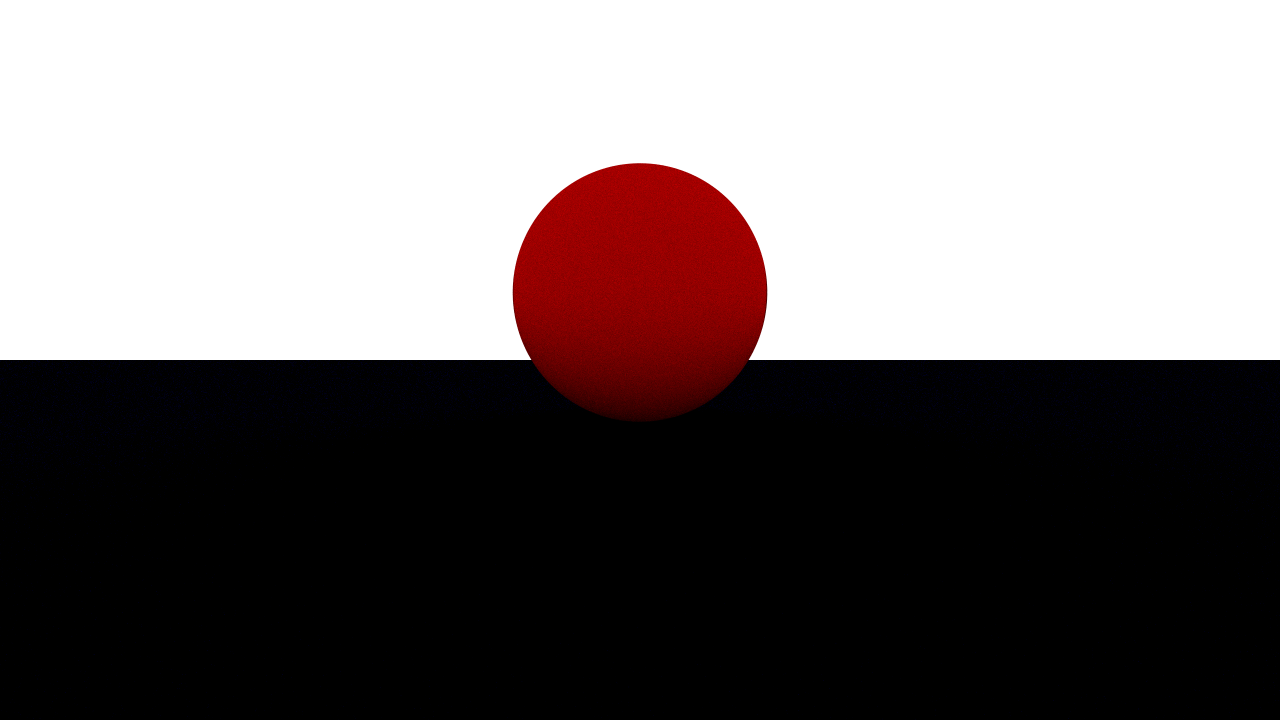
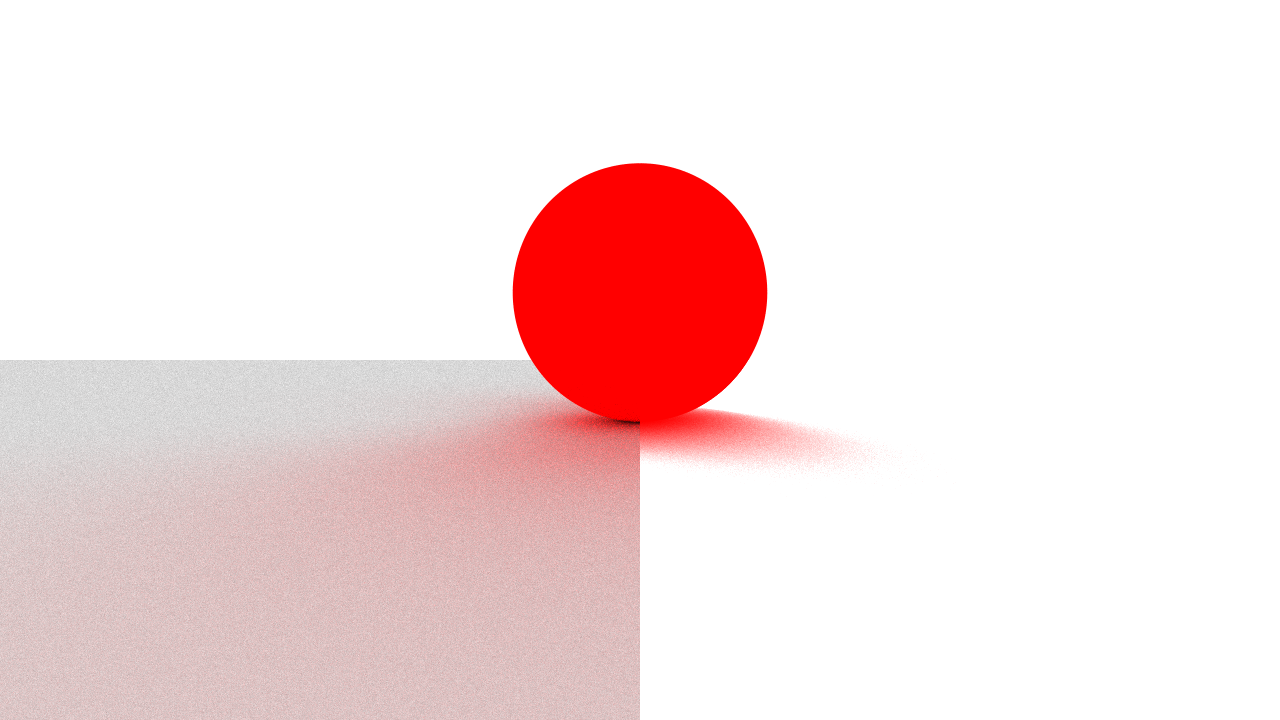
Refactor material scattering logic and introduce left/right differentiation

diff --git a/src/material/mod.rs b/src/material/mod.rs
@@ -28,7 +28,27 @@ fn generate_coordinate_system(normal: &Vec3<FloatSize>) -> (Vec3<FloatSize>, Vec
     (u, v)
 }
 
-fn cosine_weighted_sample(normal: &Vec3<FloatSize>, rand_state: &mut ThreadRng) -> Vec3<FloatSize> {
+fn cosine_weighted_sample_2(
+    normal: &Vec3<FloatSize>,
+    rand_state: &mut ThreadRng,
+) -> Vec3<FloatSize> {
+    let (v, u) = generate_coordinate_system(normal);
+    let r1: FloatSize = rand_state.gen_range(0.0..1.0);
+    let r2: FloatSize = rand_state.gen_range(0.0..1.0);
+    let theta = r1.sqrt().acos();
+    let phi = r2 * 2.0 * std::f64::consts::PI as FloatSize;
+    let a = Vec3::new([phi.sin() * theta.cos(), phi.cos(), phi.sin() * theta.sin()]);
+    Vec3::new([
+        a.x() * u.x() + a.y() * normal.x() + a.z() * v.x(),
+        a.x() * u.y() + a.y() * normal.y() + a.z() * v.y(),
+        a.x() * u.z() + a.y() * normal.z() + a.z() * v.z(),
+    ])
+}
+
+fn cosine_weighted_sample_1(
+    normal: &Vec3<FloatSize>,
+    rand_state: &mut ThreadRng,
+) -> Vec3<FloatSize> {
     let (v, u) = generate_coordinate_system(normal);
     let r1: FloatSize = rand_state.gen_range(0.0..1.0);
     let r2: FloatSize = rand_state.gen_range(0.0..1.0);
@@ -49,23 +69,21 @@ fn cosine_weighted_sample(normal: &Vec3<FloatSize>, rand_state: &mut ThreadRng) 
 }
 
 impl Material {
-    pub fn scatter(&self, ray: &Ray, hit_record: &HitRecord, rand_state: &mut ThreadRng) -> Ray {
-        // let reflected = Self::reflect(&ray.direction.normalize(), &hit_record.normal);
-        // let scatter_direction = reflected + Material::random_unit_vector().scale(self.reflectivity);
-
-        // let scatter_direction = if scatter_direction.near_zero() {
-        //     hit_record.normal
-        // } else {
-        //     scatter_direction
-        // };
-        // Ray {
-        //     origin: hit_record.point,
-        //     direction: scatter_direction,
-        // }
-        let random = cosine_weighted_sample(&hit_record.normal, rand_state);
-        // if random.dot(&hit_record.normal) < 0.0 {
-        //     random = random.scale(-1.0);
-        // }
+    pub fn scatter(
+        &self,
+        ray: &Ray,
+        hit_record: &HitRecord,
+        rand_state: &mut ThreadRng,
+        is_left: bool,
+    ) -> Ray {
+        let mut random = if is_left {
+            cosine_weighted_sample_1(&hit_record.normal, rand_state)
+        } else {
+            cosine_weighted_sample_2(&hit_record.normal, rand_state)
+        };
+        if random.dot(&hit_record.normal) < 0.0 {
+            random = random.scale(-1.0);
+        }
 
         Ray {
             origin: hit_record.point + random.scale(0.001),

diff --git a/src/scene/mod.rs b/src/scene/mod.rs
@@ -40,14 +40,22 @@ impl Scene {
         hit_record
     }
 
-    pub fn trace_ray(&self, ray: &Ray, depth: u32, rand_state: &mut ThreadRng) -> Vec3<FloatSize> {
+    pub fn trace_ray(
+        &self,
+        ray: &Ray,
+        depth: u32,
+        rand_state: &mut ThreadRng,
+        is_left: bool,
+    ) -> Vec3<FloatSize> {
         let mut throughput = Vec3::new([1.0, 1.0, 1.0]);
         let mut ray: Ray = *ray;
         for _bounce in 0..depth {
             if let Some(hit_record) = self.hit(&ray, 0.001) {
                 let color: Vec3<FloatSize> = self.illuminate(&hit_record);
 
-                ray = hit_record.material.scatter(&ray, &hit_record, rand_state);
+                ray = hit_record
+                    .material
+                    .scatter(&ray, &hit_record, rand_state, is_left);
 
                 let brdf = hit_record
                     .material

diff --git a/src/main.rs b/src/main.rs
@@ -19,7 +19,7 @@ fn main() {
                     Vec3::new([0.0, 1.0, 0.0]),
                     1.0,
                     Material {
-                        albedo: Vec3::new([1.0, 0.0, 0.0]),
+                        albedo: Vec3::new([1.5, 0.0, 0.0]),
                         reflectivity: 1.0,
                     },
                 )),
@@ -27,8 +27,8 @@ fn main() {
                     Vec3::new([0.0, 0.0, 0.0]),
                     Vec3::new([0.0, 1.0, 0.0]),
                     Material {
-                        albedo: Vec3::new([0.0, 0.0, 1.0]),
-                        reflectivity: 0.0,
+                        albedo: Vec3::new([1.0, 1.0, 1.0]),
+                        reflectivity: 1.0,
                     },
                 )),
             ],

diff --git a/src/pathtracer/mod.rs b/src/pathtracer/mod.rs
@@ -33,7 +33,8 @@ impl PathTracer {
                             self.height as FloatSize,
                             &mut rand_state,
                         );
-                        let color = scene.trace_ray(&ray, 10, &mut rand_state);
+                        let is_left = x < self.width / 2;
+                        let color = scene.trace_ray(&ray, 10, &mut rand_state, is_left);
                         row[x] += color.scale(1.0 / self.samples as FloatSize);
                     });
                 });
